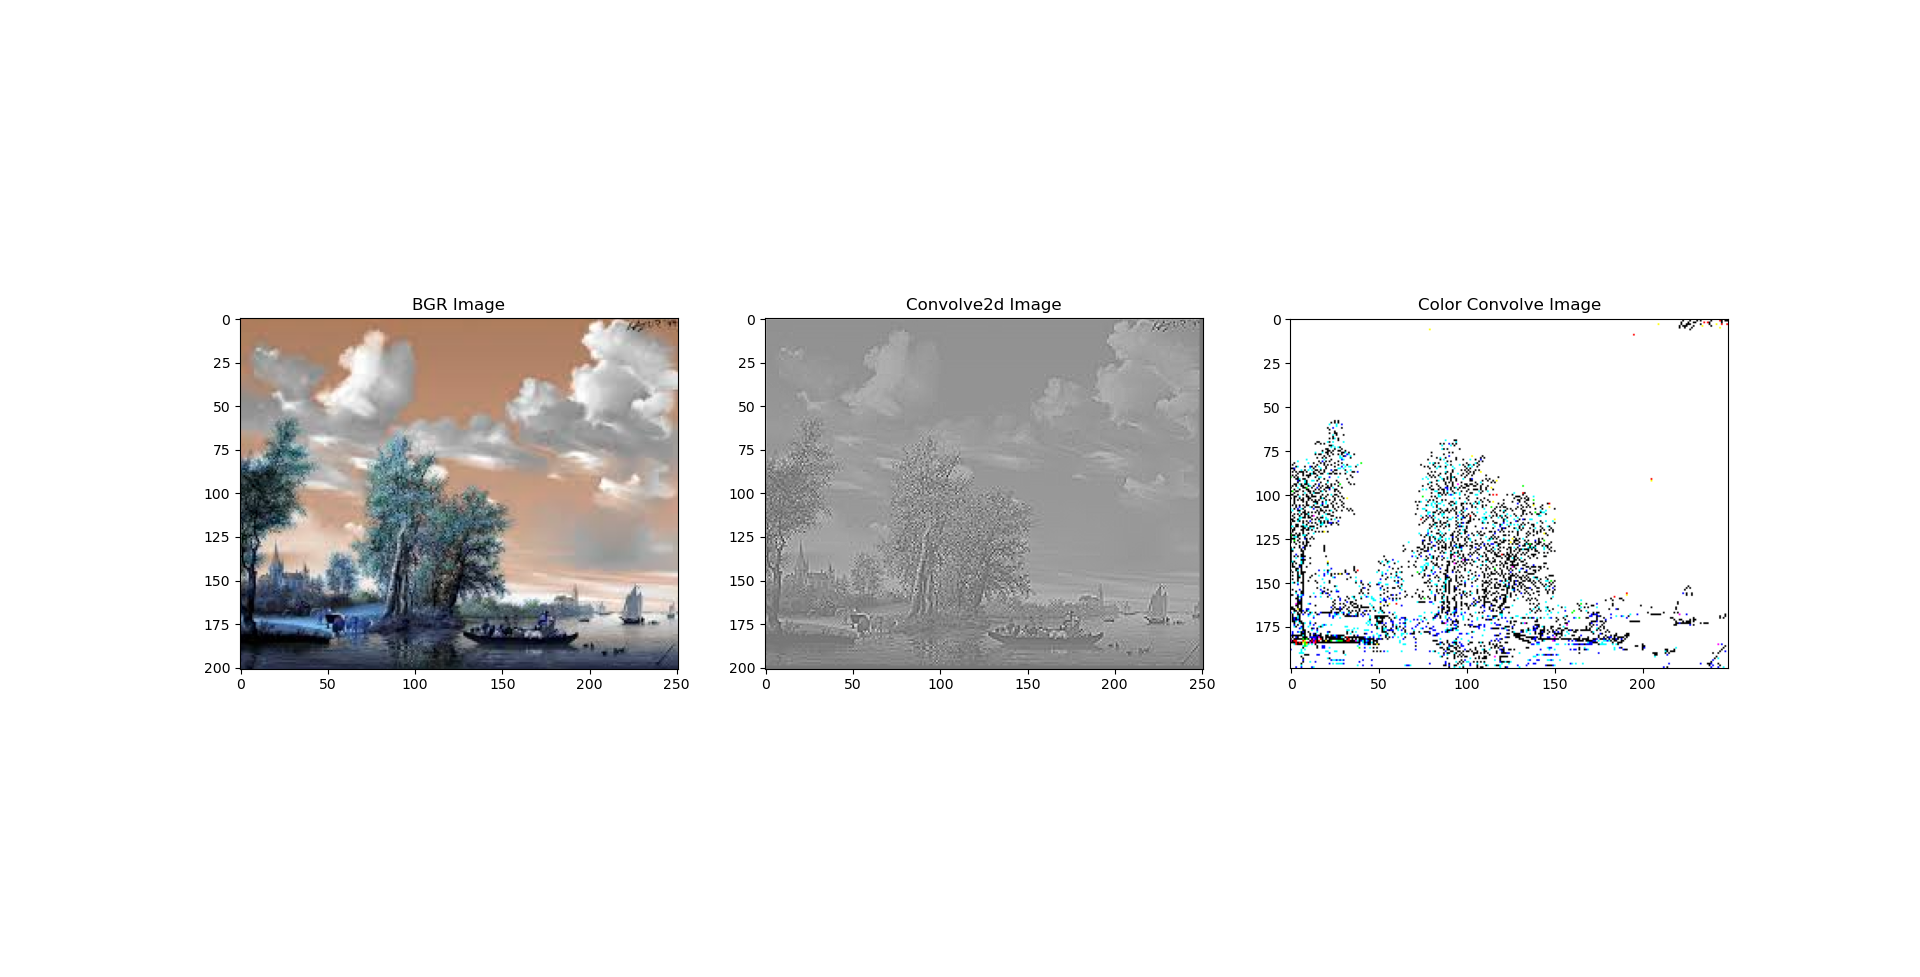
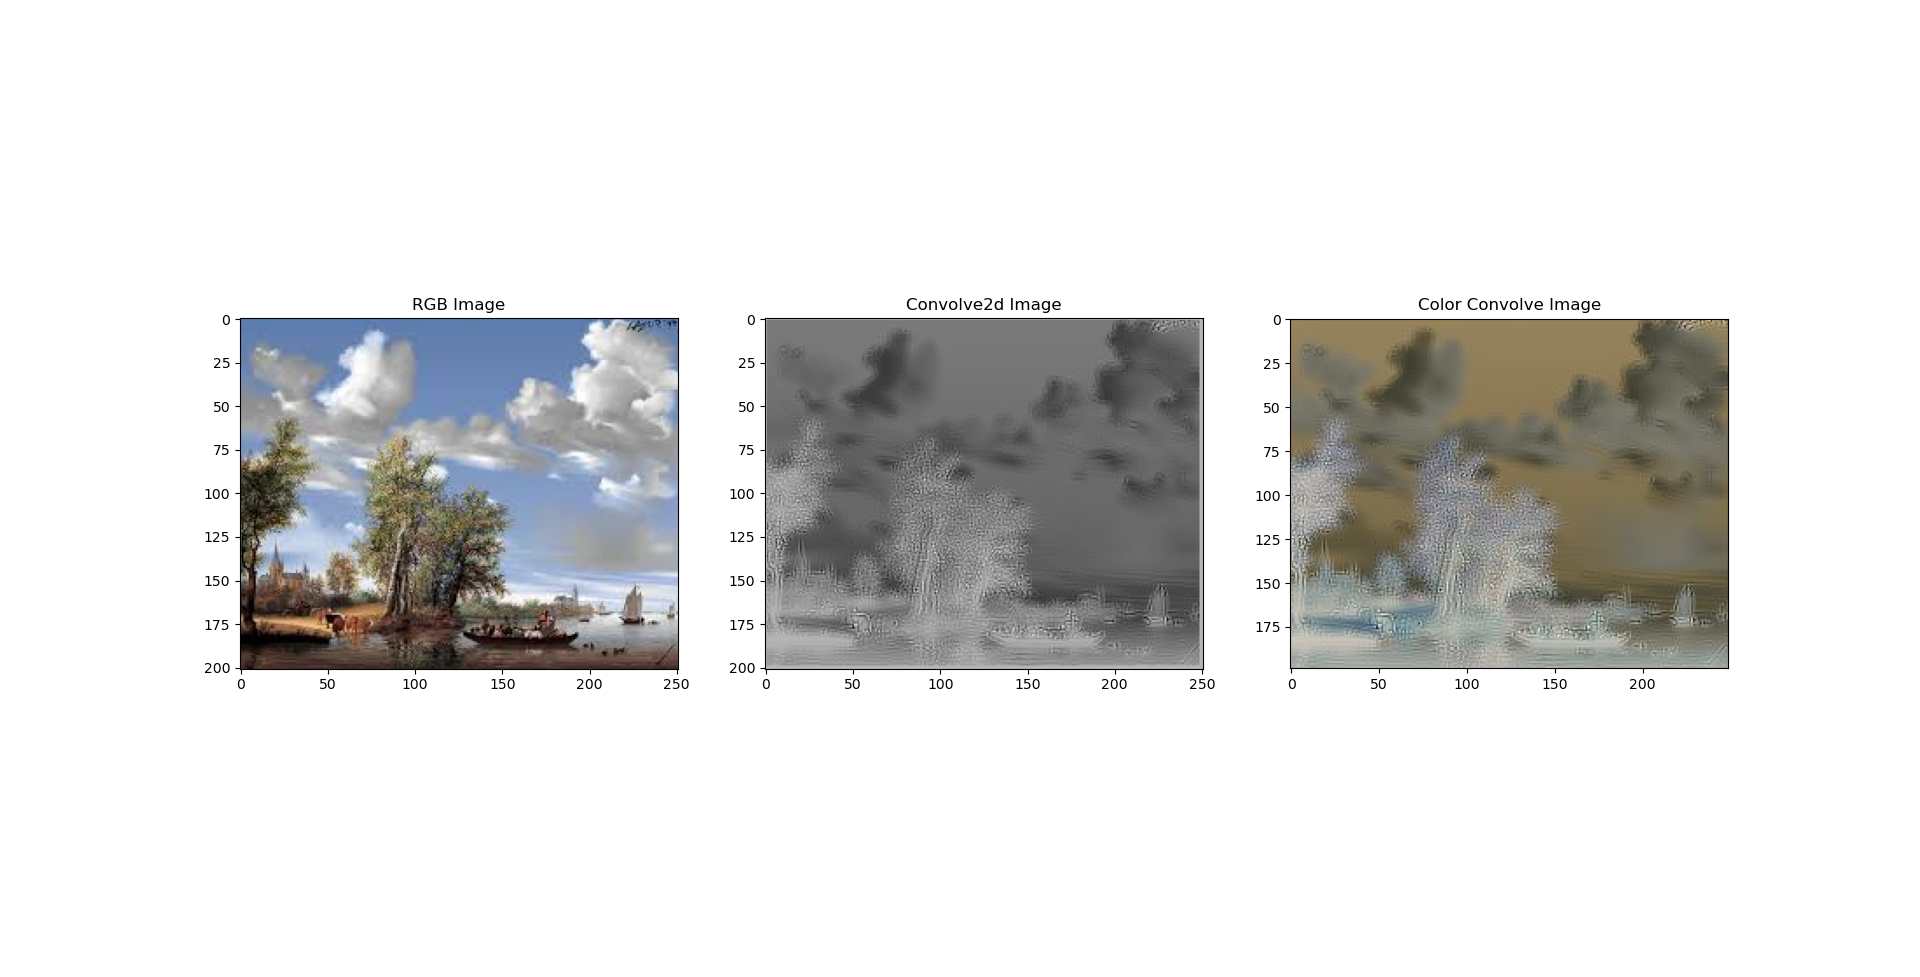
fix: normalize image before typecasting to uint8

Changed region(s): [[0.125, 0.3071, 0.625, 0.7062], [0.6562, 0.3071, 0.9062, 0.7062]]

diff --git a/convolve.py b/convolve.py
@@ -32,6 +32,8 @@ def convolve2d(img, kernel, pad=0, stride=1):
                     if x%stride==0:
                         out_img[x,y] = (padded_img[x:x+kernel_height, y:y+kernel_width] * kernel).sum()
 
+        
+        out_img = (out_img - out_img.min()) / (out_img.max() - out_img.min()) * 255
         out_img = out_img.astype(np.uint8)
         return out_img
 
